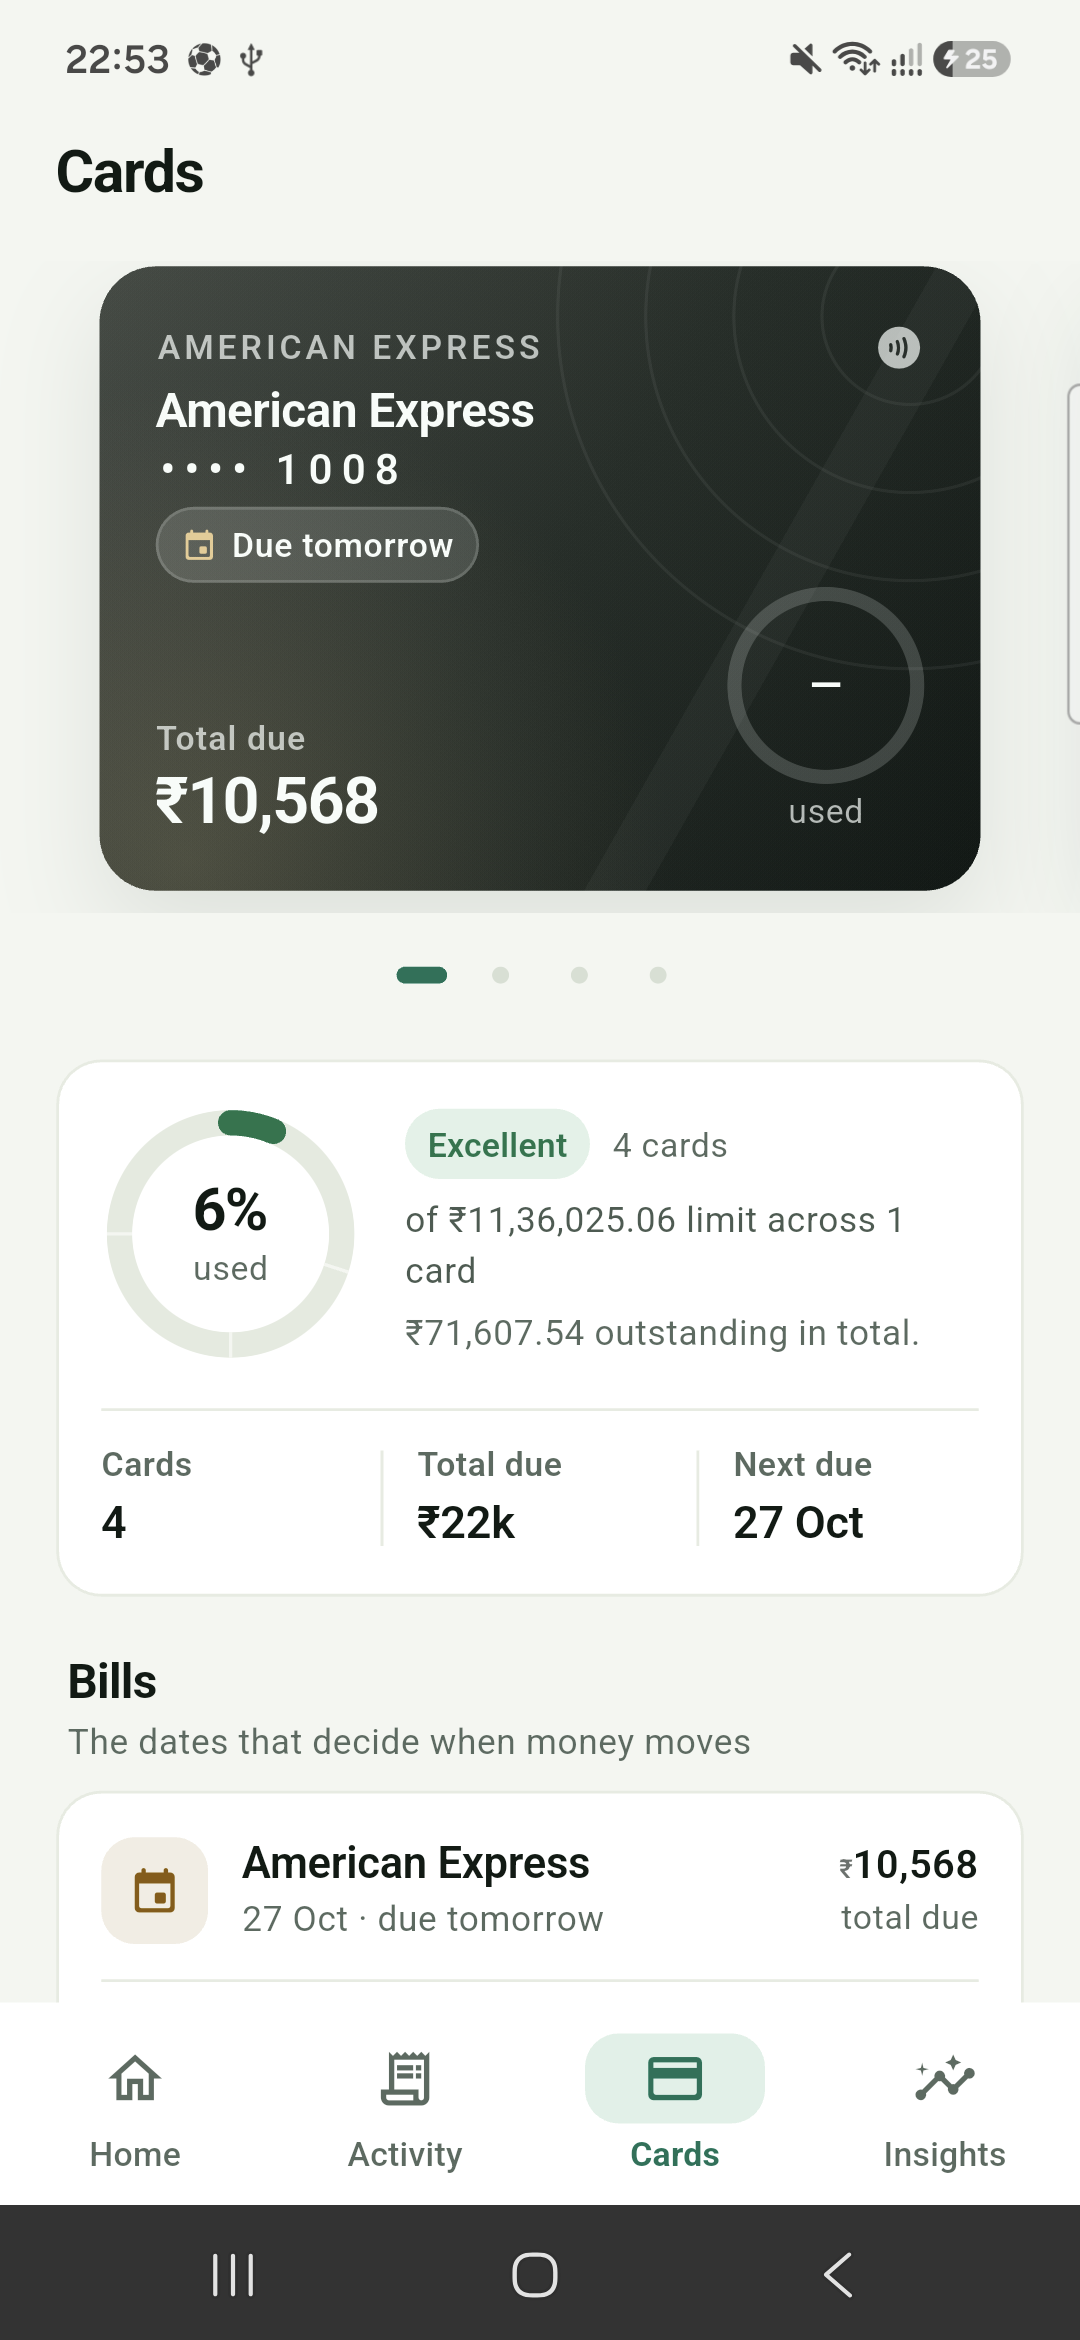
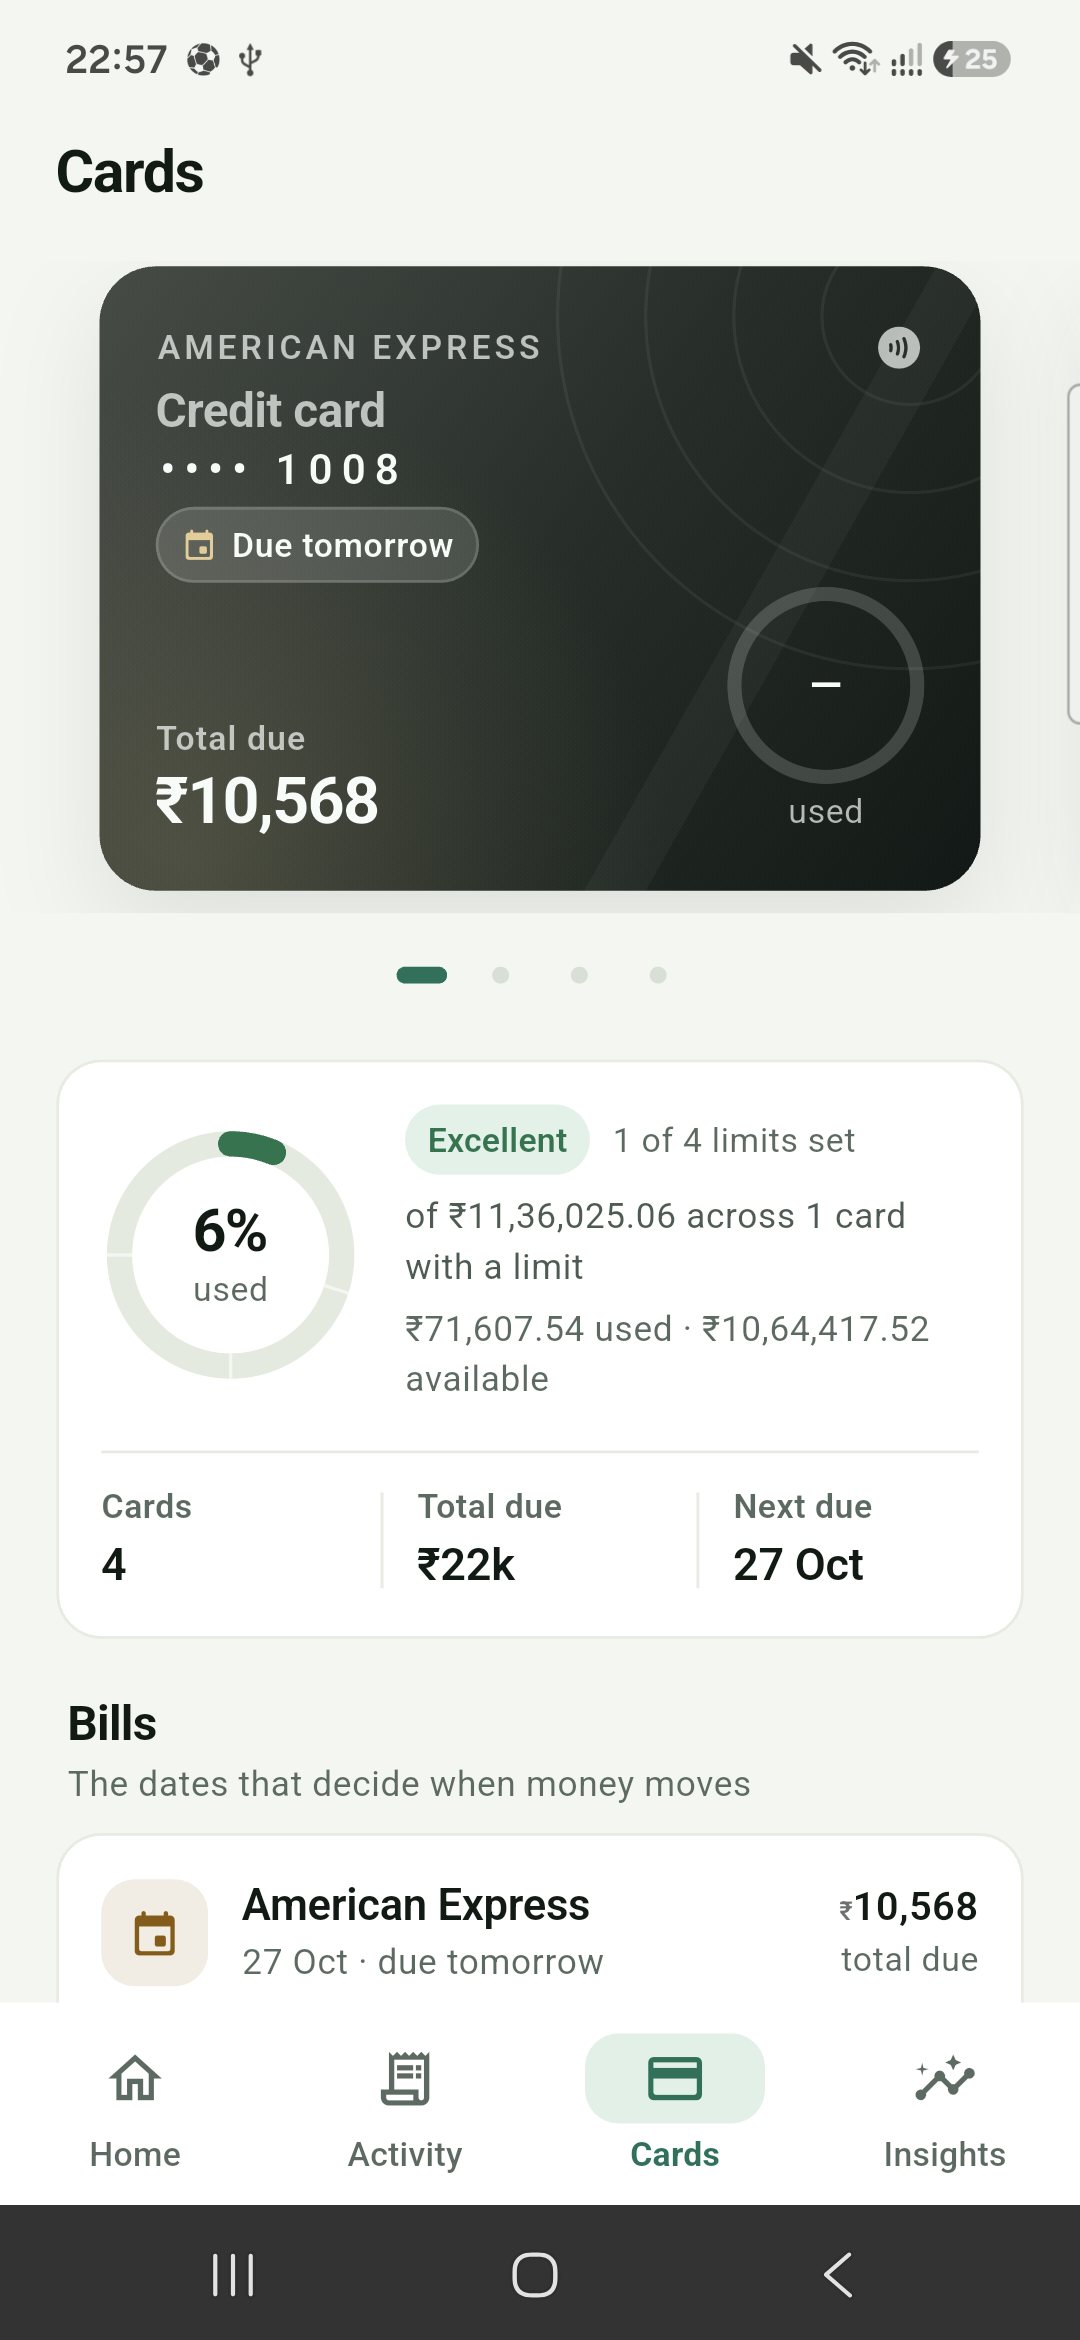
feat(ui): device-verified redesign
- home: gradient hero with money typography, provenance line, pace chart with
  today marker, compact alerts, category donut
- cards: issuer card faces, aggregate ring with limit coverage, no contradictory
  totals
- insights: neutral tone cards, compact fraud group, ranked category bars
- activity: spend header, daily bars, edge-faded filters, tappable rows
- dark mode designed; haptics; 48dp actions; MoneyText animates on data change;
  insights loading skeleton

Screenshots captured from the phone into docs/shots/device-*.png

diff --git a/lib/views/widgets/card_gauge.dart b/lib/views/widgets/card_gauge.dart
@@ -57,10 +57,16 @@ class CardSummaryCard extends StatelessWidget {
         ? null
         : (utilization! * 100).round();
     final color = utilizationBandColor(band, context);
+    final used = utilization == null
+        ? null
+        : Paise((limit.value * utilization!).round());
     final caption = utilization == null
         ? 'Add a card limit to see total utilisation.'
-        : 'of ${inr(limit)} limit across $limitedCards '
-              '${limitedCards == 1 ? 'card' : 'cards'}';
+        : 'of ${inr(limit)} across $limitedCards '
+              '${limitedCards == 1 ? 'card' : 'cards'} with a limit';
+    final limitNote = limitedCards == cards.length
+        ? 'All limits set'
+        : '$limitedCards of ${cards.length} limits set';
 
     return AppCard(
       padding: const EdgeInsets.all(T.s4),
@@ -108,7 +114,7 @@ class CardSummaryCard extends StatelessWidget {
                           dense: true,
                         ),
                         Text(
-                          '${cards.length} ${cards.length == 1 ? 'card' : 'cards'}',
+                          limitNote,
                           style: T.bodySmall.copyWith(
                             color: p.inkMuted,
                             fontSize: 12,
@@ -125,9 +131,9 @@ class CardSummaryCard extends StatelessWidget {
                     ),
                     const SizedBox(height: 4),
                     Text(
-                      utilization == null
+                      used == null
                           ? 'Set a limit on each card below.'
-                          : '${inr(Paise((limit.value * utilization!).round()))} outstanding in total.',
+                          : '${inr(used)} used · ${inr(Paise((limit.value - used.value).clamp(0, limit.value)))} available',
                       maxLines: 2,
                       overflow: TextOverflow.ellipsis,
                       style: T.bodySmall.copyWith(color: p.inkMuted),

diff --git a/lib/views/widgets/insight_tile.dart b/lib/views/widgets/insight_tile.dart
@@ -31,6 +31,18 @@ IconData insightToneIcon(InsightTone tone) => switch (tone) {
   InsightTone.neutral => Icons.insights_rounded,
 };
 
+/// The engine speaks in counts ("in 1 days"). The card is the last place to
+/// clean the grammar up without touching the number.
+String _tidyTitle(String title) {
+  if (title.contains('in 1 days')) {
+    return title.replaceFirst('in 1 days', 'tomorrow');
+  }
+  if (title.contains('in 0 days')) {
+    return title.replaceFirst('in 0 days', 'today');
+  }
+  return title;
+}
+
 /// One claim, ranked by how much it matters. Warnings and cautions get a tint
 /// so they lead the eye; everything else stays on the calm surface.
 class InsightTile extends StatelessWidget {
@@ -46,6 +58,7 @@ class InsightTile extends StatelessWidget {
         insight.tone == InsightTone.caution;
     final amount = insight.amountPaise;
     final chip = insight.chip?.trim();
+    final title = _tidyTitle(insight.title);
     final semantics = [
       switch (insight.tone) {
         InsightTone.warning => 'Warning',
@@ -53,7 +66,7 @@ class InsightTile extends StatelessWidget {
         InsightTone.positive => 'Good news',
         InsightTone.neutral => 'Note',
       },
-      insight.title,
+      title,
       insight.body,
       if (amount != null && amount != 0) inr(Paise(amount)),
     ].join('. ');
@@ -110,7 +123,7 @@ class InsightTile extends StatelessWidget {
             ),
             const SizedBox(height: T.s3),
             Text(
-              insight.title,
+              title,
               style: T.cardTitle.copyWith(color: p.ink, fontSize: 15.5),
             ),
             const SizedBox(height: T.s1),

diff --git a/lib/views/widgets/card_face.dart b/lib/views/widgets/card_face.dart
@@ -176,11 +176,15 @@ class _FullFace extends StatelessWidget {
         ),
         const SizedBox(height: 2),
         Text(
-          card.displayName,
+          card.displayName.toLowerCase() == card.issuer.toLowerCase()
+              ? 'Credit card'
+              : card.displayName,
           maxLines: 1,
           overflow: TextOverflow.ellipsis,
           style: T.cardTitle.copyWith(
-            color: ink,
+            color: card.displayName.toLowerCase() == card.issuer.toLowerCase()
+                ? mutedInk
+                : ink,
             fontSize: 17,
             fontWeight: FontWeight.w700,
             letterSpacing: -0.2,
@@ -481,7 +485,7 @@ class _FaceGauge extends StatelessWidget {
         ),
         const SizedBox(height: 1),
         Text(
-          'used',
+          percent == null ? 'not set' : 'used',
           maxLines: 1,
           style: T.bodySmall.copyWith(color: mutedInk, fontSize: 12),
         ),

diff --git a/lib/engine/dedupe_engine.dart b/lib/engine/dedupe_engine.dart
@@ -202,6 +202,15 @@ class DedupeEngine {
 
     final sameSender = a.sender != null && a.sender == b.sender;
     if (sameSender && _refsDistinguish(a, b)) return false;
+    // The very same alert text, from the same sender, for the same amount: one
+    // event notified twice (a fund house re-sending its SIP confirmation two
+    // minutes later). This is the only same-sender merge that needs no merchant.
+    if (sameSender &&
+        a.rawBody != null &&
+        b.rawBody != null &&
+        _bodySignature(a.rawBody!) == _bodySignature(b.rawBody!)) {
+      return true;
+    }
     if (a.kind != b.kind) return false;
 
     final bothCardBill =
@@ -317,4 +326,7 @@ class DedupeEngine {
 
   static String _normalise(String value) =>
       value.toLowerCase().replaceAll(RegExp(r'[^a-z0-9]+'), '');
+
+  static String _bodySignature(String body) =>
+      body.toLowerCase().replaceAll(RegExp(r'\s+'), ' ').trim();
 }

diff --git a/lib/views/home_screen.dart b/lib/views/home_screen.dart
@@ -653,14 +653,19 @@ class _Attention extends StatelessWidget {
     }
 
     for (final card in data.cards.where((c) => c.dueSoon).take(1)) {
+      final days = card.daysToDue ?? 0;
+      final dueText = days <= 0
+          ? 'due today'
+          : days == 1
+          ? 'due tomorrow'
+          : 'due in $days days';
       widgets.add(
         Padding(
           padding: const EdgeInsets.only(bottom: T.s3),
           child: _CompactNotice(
             tone: PillTone.caution,
             icon: Icons.event_available_rounded,
-            title:
-                '${card.card.displayName} bill due in ${card.daysToDue} days',
+            title: '${card.card.displayName} bill $dueText',
             body:
                 '${inr(card.totalDue)} total due${card.minimumDue != null ? ' · ${inr(card.minimumDue!)} minimum' : ''}. '
                 'Paying in full avoids interest.',

diff --git a/lib/data/sqlite_finance_repository.dart b/lib/data/sqlite_finance_repository.dart
@@ -346,7 +346,7 @@ class SqliteFinanceRepository implements FinanceRepository, InboxStore {
   /// Stored in `app_meta`; together with the schema version it decides whether
   /// the stored ledger has to be re-derived. Bump this on every rule change
   /// that alters what a message becomes.
-  static const int parserVersion = 5;
+  static const int parserVersion = 6;
 
   @override
   Future<IngestResult> reparseAll() async {

diff --git a/lib/views/transactions_screen.dart b/lib/views/transactions_screen.dart
@@ -278,7 +278,7 @@ class _TransactionsScreenState extends State<TransactionsScreen> {
                     top: 0,
                     bottom: 0,
                     right: 0,
-                    width: 28,
+                    width: 48,
                     child: IgnorePointer(
                       child: DecoratedBox(
                         decoration: BoxDecoration(

diff --git a/.review_tmp/status.py b/.review_tmp/status.py
@@ -1,0 +1,10 @@
+import sqlite3, os, sys
+path = sys.argv[1] if len(sys.argv) > 1 else os.path.join(os.environ['TEMP'], 'finance_device3.db')
+con = sqlite3.connect(path)
+con.text_factory = lambda b: b.decode('utf-8', 'replace')
+print('meta', con.execute("select key, value from app_meta").fetchall())
+print('processed', con.execute('select processed, count(*) from sms_messages group by processed').fetchall())
+print('classes', con.execute('select class, count(*) from sms_messages group by class').fetchall())
+print('txns', con.execute('select count(*) from transactions').fetchone()[0])
+print('cards', con.execute('select count(*) from cards').fetchone()[0])
+print('bills', con.execute('select count(*) from card_bills').fetchone()[0])

diff --git a/.review_tmp/dup.py b/.review_tmp/dup.py
@@ -1,0 +1,12 @@
+import sqlite3, os, sys, datetime
+path = sys.argv[1] if len(sys.argv) > 1 else os.path.join(os.environ['TEMP'], 'finance_device2.db')
+con = sqlite3.connect(path)
+con.text_factory = lambda b: b.decode('utf-8', 'replace')
+rows = con.execute(
+    "select occurred_at, sender, amount_paise, kind, transfer_reason, merchant, reference_id, raw_body "
+    "from transactions where amount_paise = 299985 order by occurred_at"
+).fetchall()
+for r in rows:
+    ts = datetime.datetime.fromtimestamp(r[0] / 1000).strftime('%Y-%m-%d %H:%M:%S')
+    print(ts, r[1], r[2], r[3], r[4], r[5], r[6])
+    print('   ', (r[7] or '')[:160])

diff --git a/.review_tmp/verify_db.py b/.review_tmp/verify_db.py
@@ -74,7 +74,7 @@ for label, sql in {
 }.items():
     print(f'  {label}: {q(sql)[0][0]}')
 
-print('\n=== the ₹2,999.85 SIP purchase ===')
+print('\n=== the 2,999.85 SIP purchase ===')
 for row in q("select count(*), coalesce(sum(amount_paise),0)/100 from transactions "
              "where raw_body like '%2,999.85%'"):
     print('  rows / total:', row)
